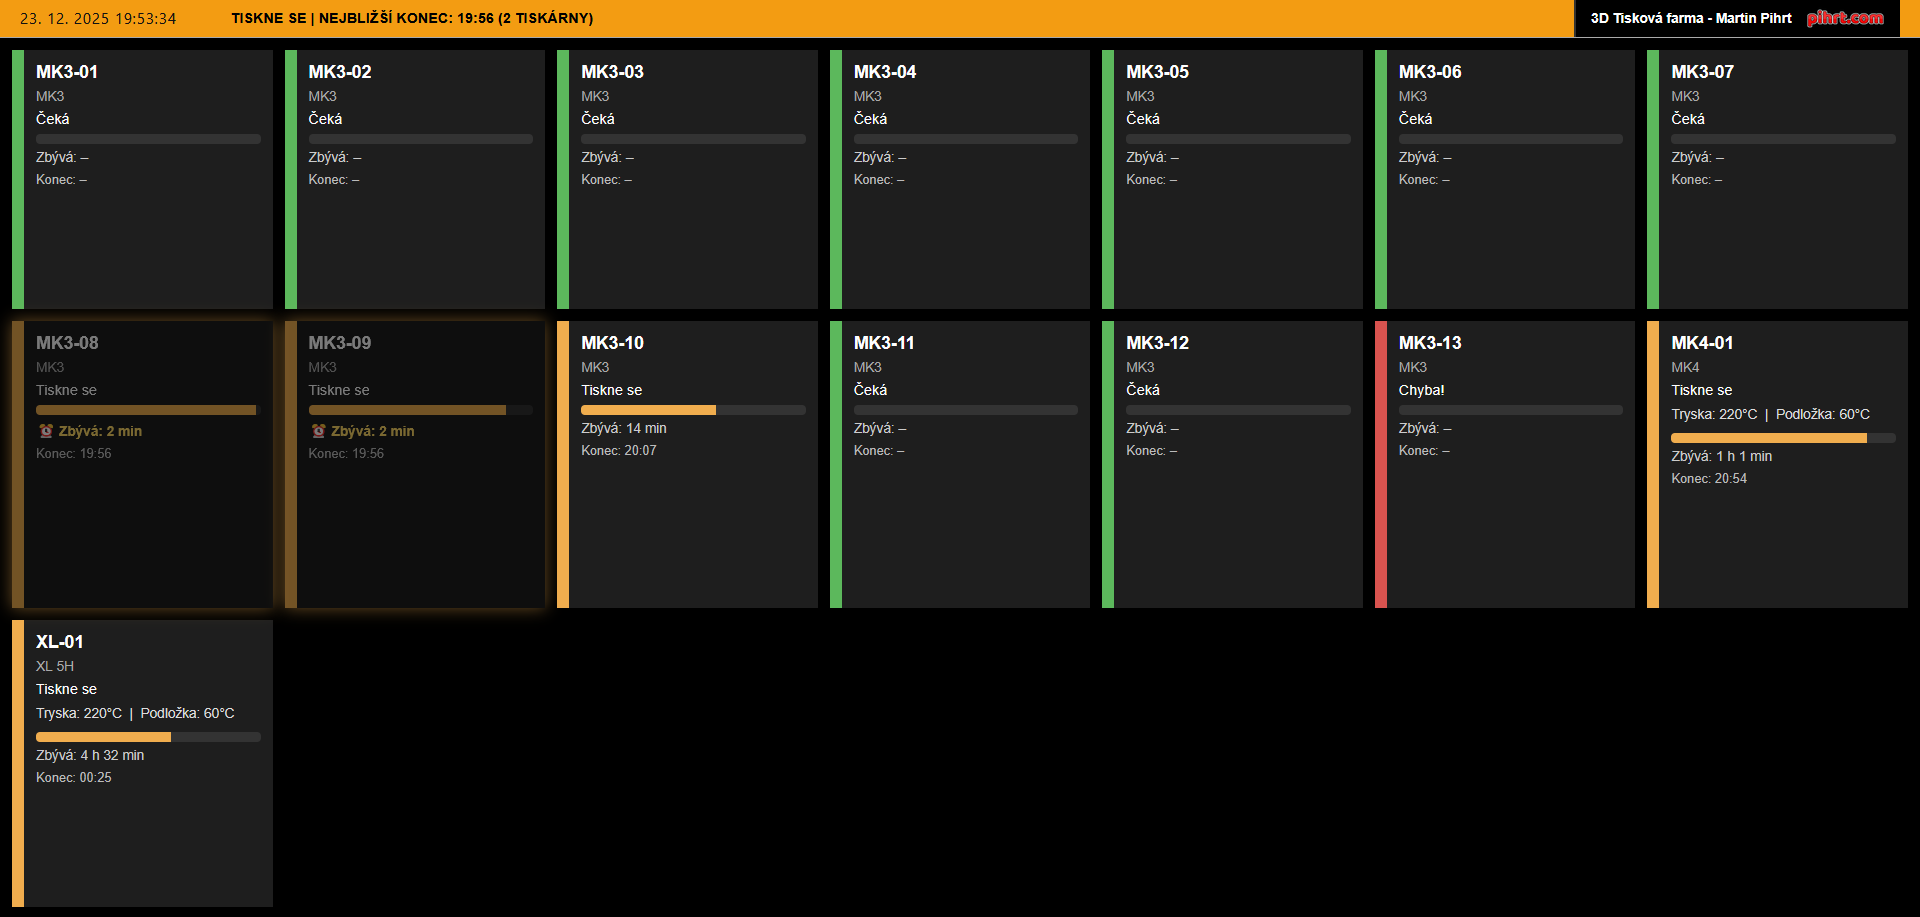
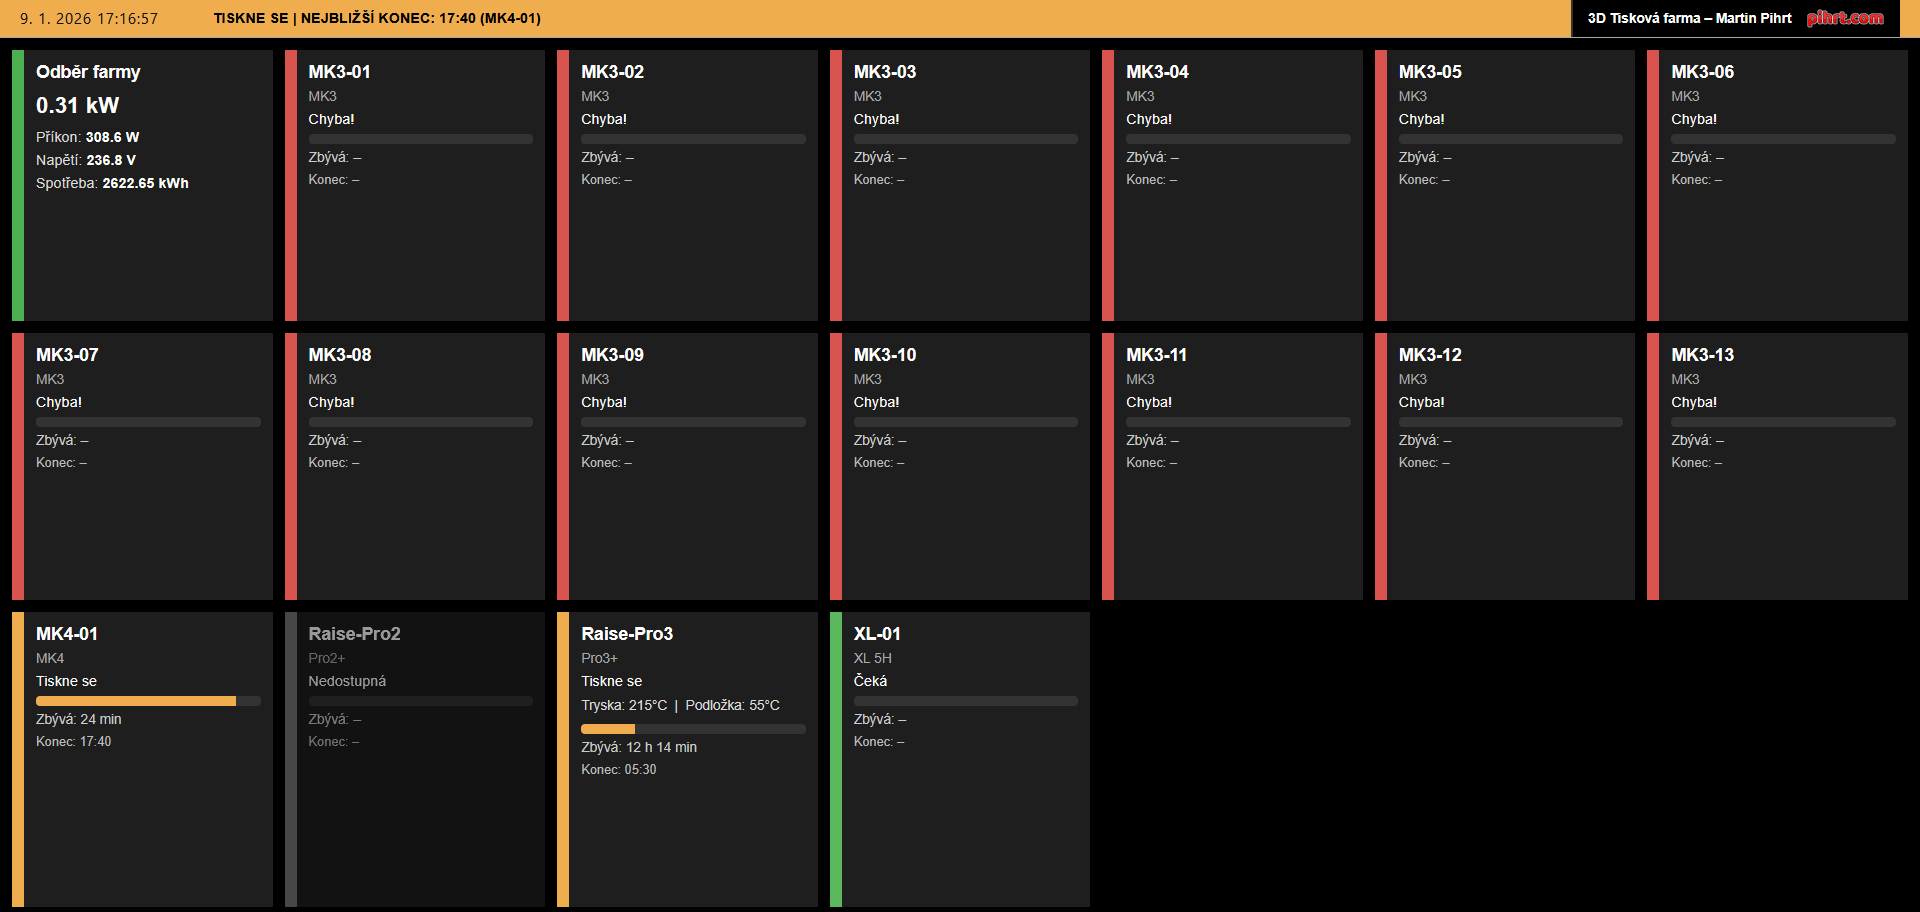
Shelly 4PM for measuring voltage, consumption, and power (tested OK)

Changed region(s): [[0.0, 0.0, 1.0, 1.0], [0.9688, 0.0, 1.0, 0.0614]]

diff --git a/app/devices/shelly_4pm.py b/app/devices/shelly_4pm.py
@@ -2,7 +2,7 @@ import requests
 from requests.auth import HTTPBasicAuth
 
 
-def _fetch_status(device):
+def _get_status(device):
     url = f"http://{device['ip']}/rpc/Shelly.GetStatus"
 
     auth = None
@@ -14,32 +14,65 @@ def _fetch_status(device):
     return response.json()
 
 
+def _extract_voltages(data):
+    """
+    Shelly FW differs by model/firmware.
+    Voltage can be in:
+      - switch:0.voltage
+      - em:0.voltage
+      - sometimes on root (rare)
+    """
+    voltages = []
+
+    # rare case
+    if isinstance(data.get("voltage"), (int, float)):
+        voltages.append(float(data["voltage"]))
+
+    # switch channels
+    for key, value in data.items():
+        if key.startswith("switch:") and isinstance(value, dict):
+            v = value.get("voltage")
+            if isinstance(v, (int, float)):
+                voltages.append(float(v))
+
+    # EM measurement block
+    for key, value in data.items():
+        if key.startswith("em:") and isinstance(value, dict):
+            v = value.get("voltage")
+            if isinstance(v, (int, float)):
+                voltages.append(float(v))
+
+    return voltages
+
+
 def get_power_status(devices):
     total_power_w = 0.0
     total_energy_wh = 0.0
-    voltages = []
+    all_voltages = []
 
     for device in devices:
         try:
-            data = _fetch_status(device)
+            data = _get_status(device)
         except Exception as e:
-            print(f"Shelly {device.get('ip')} error: {e}")
+            print(f"Shelly {device.get('ip')} unreachable: {e}")
             continue
 
-        if "voltage" in data:
-            voltages.append(data["voltage"])
+        # collect voltages from this device
+        all_voltages.extend(_extract_voltages(data))
 
+        # sum channels
         for key, value in data.items():
-            if not key.startswith("switch:"):
-                continue
+            if key.startswith("switch:") and isinstance(value, dict):
+                total_power_w += value.get("apower", 0.0)
+                total_energy_wh += value.get("aenergy", {}).get("total", 0.0)
 
-            total_power_w += value.get("apower", 0.0)
-            total_energy_wh += value.get("aenergy", {}).get("total", 0.0)
+    voltage_v = None
+    if all_voltages:
+        voltage_v = round(sum(all_voltages) / len(all_voltages), 1)
 
     return {
-        "type": "power",
         "power_w": round(total_power_w, 1),
         "power_kw": round(total_power_w / 1000, 2),
-        "voltage_v": round(sum(voltages) / len(voltages), 1) if voltages else None,
+        "voltage_v": voltage_v,
         "energy_kwh": round(total_energy_wh / 1000, 2),
     }

diff --git a/README.md b/README.md
@@ -39,13 +39,14 @@ Printers:
 Devices:
 -   Shelly 4PM for measuring voltage, consumption, and power usage from Shelly devices (LAN).
 
+[![](https://github.com/pihrt-com/walldisplay/blob/main/farm.gif?raw=true)](https://github.com/pihrt-com/walldisplay/blob/main/farm.gif)
+
 [![](https://github.com/pihrt-com/walldisplay/blob/main/www%20test%20example/final_screen.png?raw=true)](https://github.com/pihrt-com/walldisplay/blob/main/www%20test%20example/final_screen.png)
 
 
 ## Remote json export
 - POST https://your_ip/update.php
 - Authorization: Bearer YOUR_SECRET_TOKEN
-
 
 ## Python libraries
 - Tested in  **Python 3.13** runs in **virtualenv** (`venv`)
